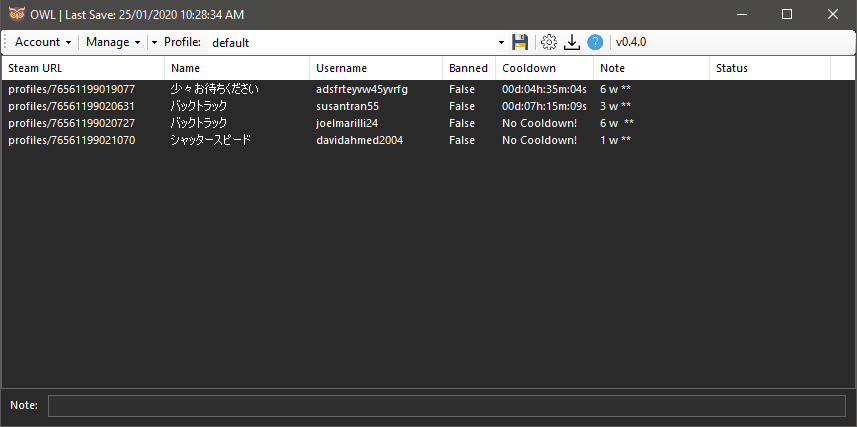
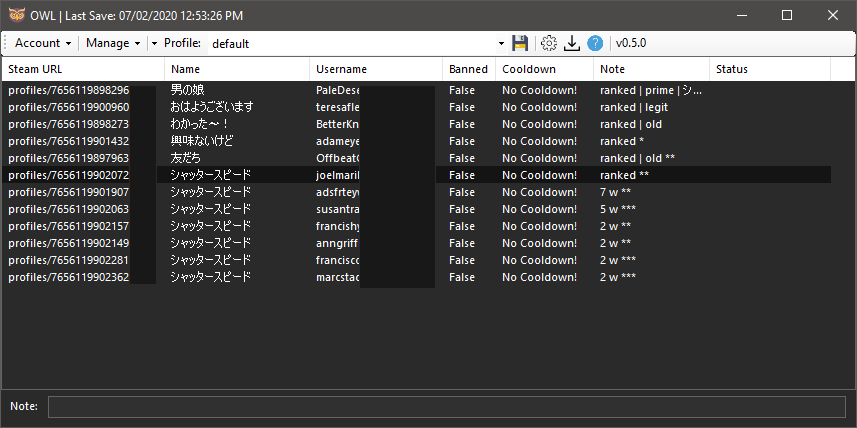
re push

Changed region(s): [[0.0, 0.0, 1.0, 0.6698]]

diff --git a/README.md b/README.md
@@ -2,7 +2,7 @@
 A multipurpose tool for managing Steam accounts
 <table>
     <tr><td><b>State</b></td><td>Beta</td></tr>
-    <tr><td><b>Latest Release</b></td><td>0.4.0</td></tr>
+    <tr><td><b>Latest Release</b></td><td>0.5.0</td></tr>
     <tr><td><b>License</b></td><td>???</td></tr>
 </table>
 
